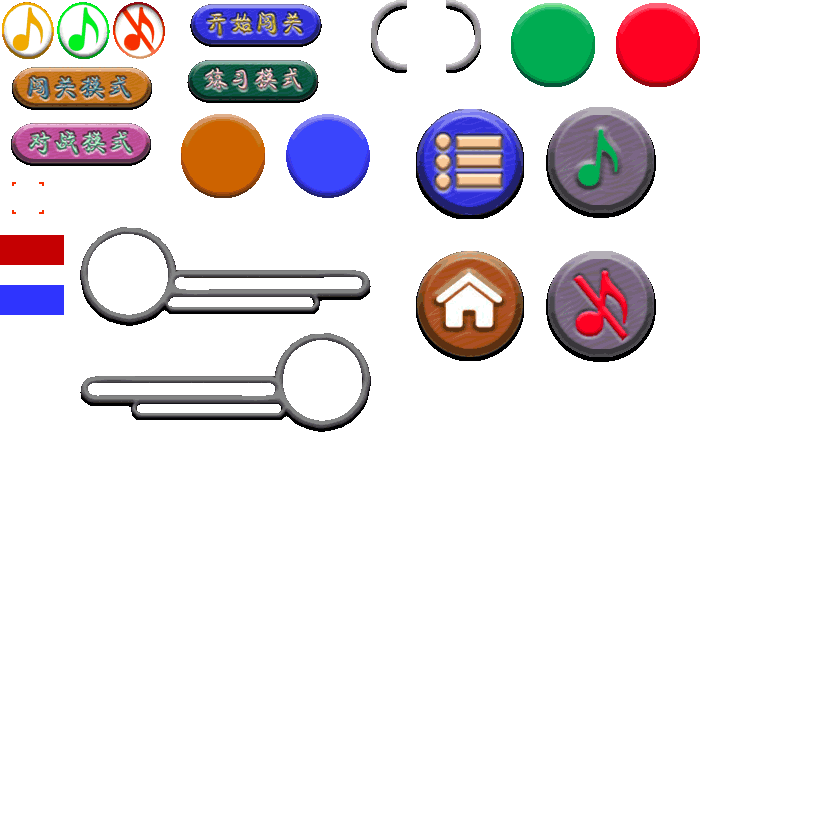
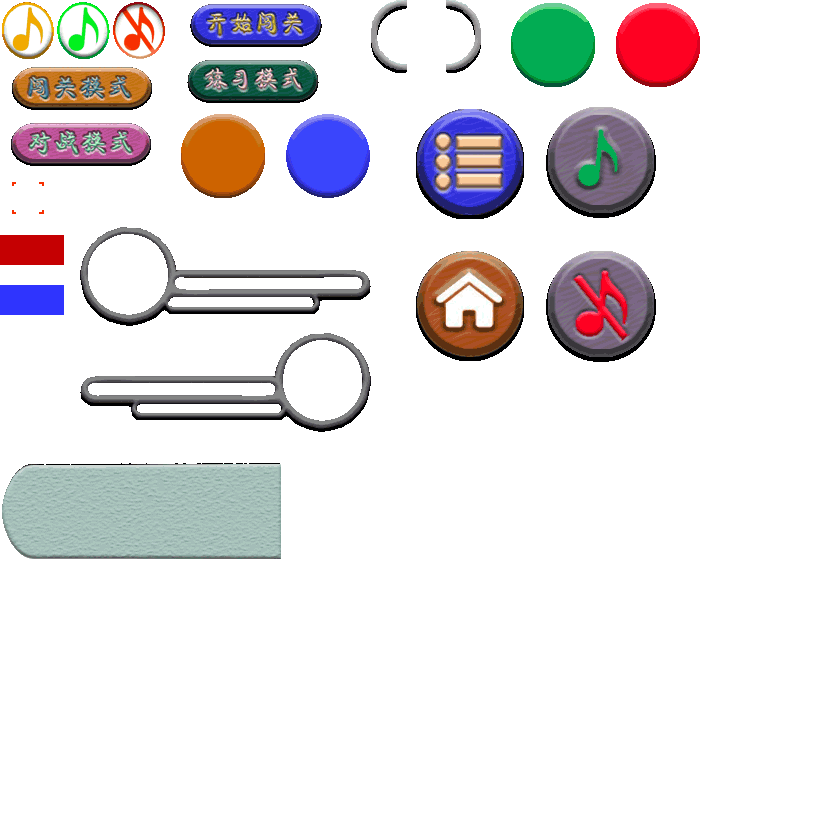
m
mm

Changed region(s): [[0.0, 0.5262, 0.3405, 0.681], [0.031, 0.1548, 0.1548, 0.1857], [0.619, 0.0, 0.7119, 0.031]]

diff --git a/js/main.js b/js/main.js
@@ -10,6 +10,11 @@ let imageBox = new ImageBox()
 let dataBus = new DataBus()
 let ctx = canvas.getContext('2d')
 
+let instance
+
+canvas.width = wx.getSystemInfoSync().windowWidth
+canvas.height = wx.getSystemInfoSync().windowHeight
+
 /**
  * 游戏主函数
  */
@@ -24,6 +29,10 @@ export default class Main {
       // this.loader.loadPlayers(ctx)
       this.gotoPage(0)
     })
+    if (instance) {
+      return instance
+    }
+    instance = this
   }
 
   /**
@@ -31,15 +40,17 @@ export default class Main {
    *    不在此处 new 
    */
   gotoPage(pageNo) {
+    this.startMenu.closeSetUp()
     switch(pageNo) {
       case 0:
         dataBus.currentPage = 0
-        this.player.stopAnimation()
+        this.player.cutOut()
+        this.selectColor.cutOut()
         this.startMenu.cutIn()
         break
       case 1:
         dataBus.currentPage = 1
-        this.player.stopAnimation()
+        this.player.cutOut()
         this.selectColor.cutIn()
         break
       case 2:
@@ -66,3 +77,13 @@ export default class Main {
   }
 
 }
+
+/**
+ * 切出屏幕回来时调用
+ */
+wx.onShow(res => {
+  if(instance.player)
+    setTimeout(function () {
+      instance.render()
+    }, 50)
+})

diff --git a/js/runtime/music.js b/js/runtime/music.js
@@ -50,6 +50,17 @@ export default class Music {
       h: 43
     }
 
+    this.btnBg = {
+      picX: 0,
+      picY: 464,
+      picW: 280,
+      picH: 100,
+      x: screenWidth * .95 - 50,
+      y: 100,
+      w: screenWidth * .05 + 105,
+      h: 42
+    }
+
     this.closeMusic()
     // this.bgmAudio = new Audio()
     // this.bgmAudio.loop = true
@@ -65,6 +76,11 @@ export default class Music {
   }
 
   render(ctx) {
+    this.btnBg.x = !this.setup.playing ? screenWidth * .95 - 4 
+        :dataBus.currentPage != 0 ? screenWidth * .95 - 104 : screenWidth * .95 - 54
+    ctx.drawImage(imageBox.menuImg,
+      this.btnBg.picX, this.btnBg.picY, this.btnBg.picW, this.btnBg.picH,
+      this.btnBg.x, this.btnBg.y, this.btnBg.w, this.btnBg.h)
     ctx.drawImage(imageBox.menuImg,
       this.setup.picX, this.setup.picY, this.setup.picW, this.setup.picH,
       this.setup.x, this.setup.y, this.setup.w, this.setup.h)
@@ -77,6 +93,7 @@ export default class Music {
           this.home.picX, this.home.picY, this.home.picW, this.home.picH,
           this.home.x, this.home.y, this.home.w, this.home.h)
       }
+
     }
   }
 

diff --git a/js/player/index.js b/js/player/index.js
@@ -28,10 +28,6 @@ export default class Player {
     this.animation = new Animation()
   }
 
-  stopAnimation() {
-    this.animation.stop()
-  }
-
   resetEnemy() {
     let org = new BluePlayer({ id: 1, img: imageBox.brownImg })
     let blue = new BluePlayer({ id: 2, img: imageBox.blueImg })
@@ -54,6 +50,11 @@ export default class Player {
 
     this.gameInfo = new GameInfo(this.player, this.ai.player)
     this.restart()
+  }
+
+  cutOut() {
+    this.animation.stop()
+    this.menu.removeAllHandler()
   }
 
   /**

diff --git a/js/runtime/menu.js b/js/runtime/menu.js
@@ -163,6 +163,13 @@ export default class Menu {
     canvas.addEventListener('touchstart', this.attTouchHandler)
   }
 
+  removeAllHandler() {
+    canvas.removeEventListener('touchstart', this.touchHandler)
+    canvas.removeEventListener('touchstart', this.attTouchHandler)
+    canvas.removeEventListener('touchmove', this.moveHandler)
+    canvas.removeEventListener('touchend', this.endHandler)
+  } 
+
   attTouchHandler(e) {
     e.preventDefault()
     let x = e.changedTouches[0].clientX

diff --git a/js/runtime/selectcolor.js b/js/runtime/selectcolor.js
@@ -74,6 +74,14 @@ export default class SelectColor{
     }
   }
 
+  /**
+   * 切出页面，移除Handler
+   */
+  cutOut() {
+    canvas.removeEventListener('touchend', this.stEndHanler)
+    canvas.removeEventListener('touchstart', this.selectHandler)
+  }
+
   addSelectHandler() {
     this.selectHandler = this.selectTouchHander.bind(this)
     canvas.addEventListener('touchstart', this.selectHandler)

diff --git a/js/runtime/startmenu.js b/js/runtime/startmenu.js
@@ -177,4 +177,7 @@ export default class StartMenu {
     }
   }
 
+  closeSetUp() {
+    music.setup.playing = false
+  }
 }
